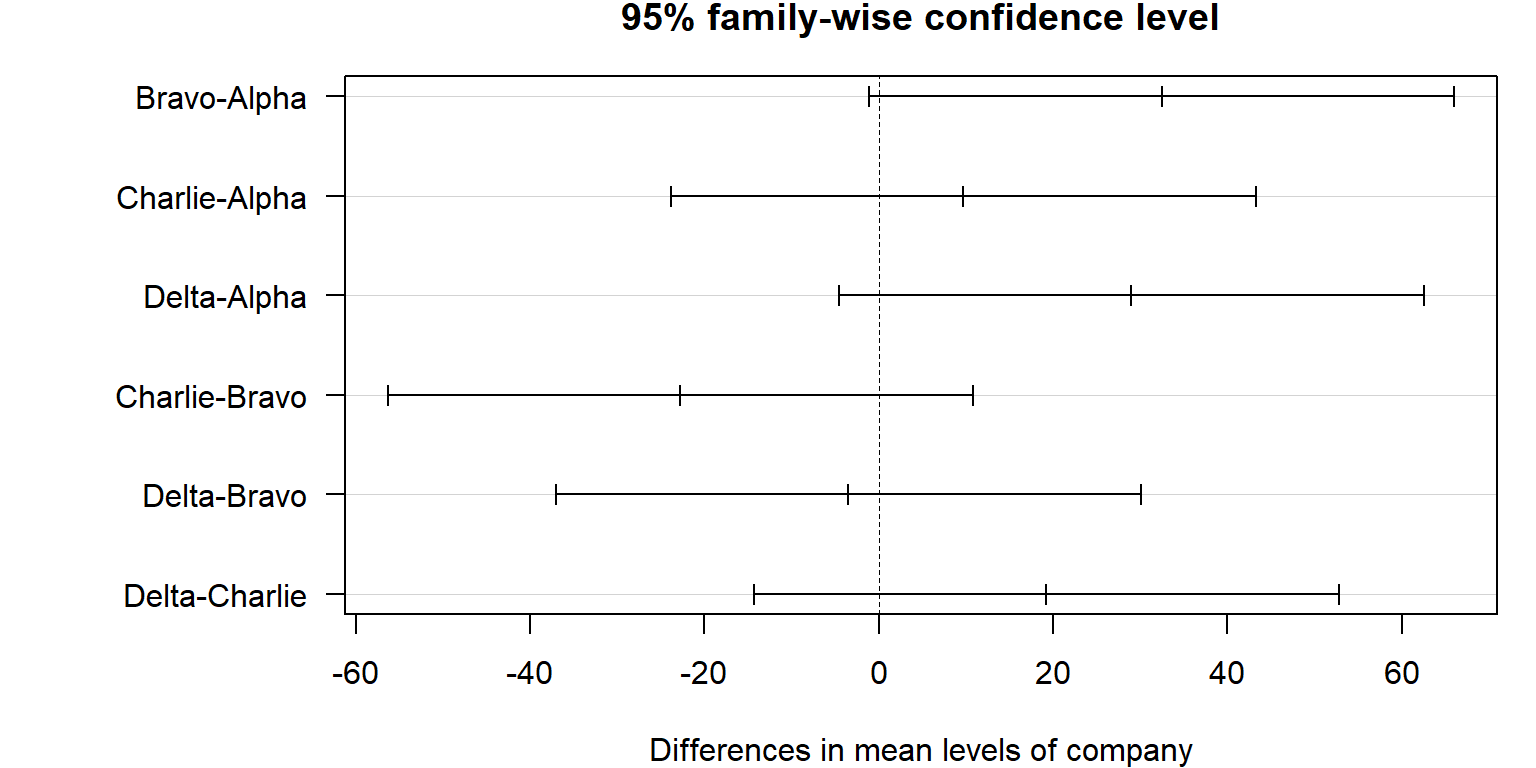
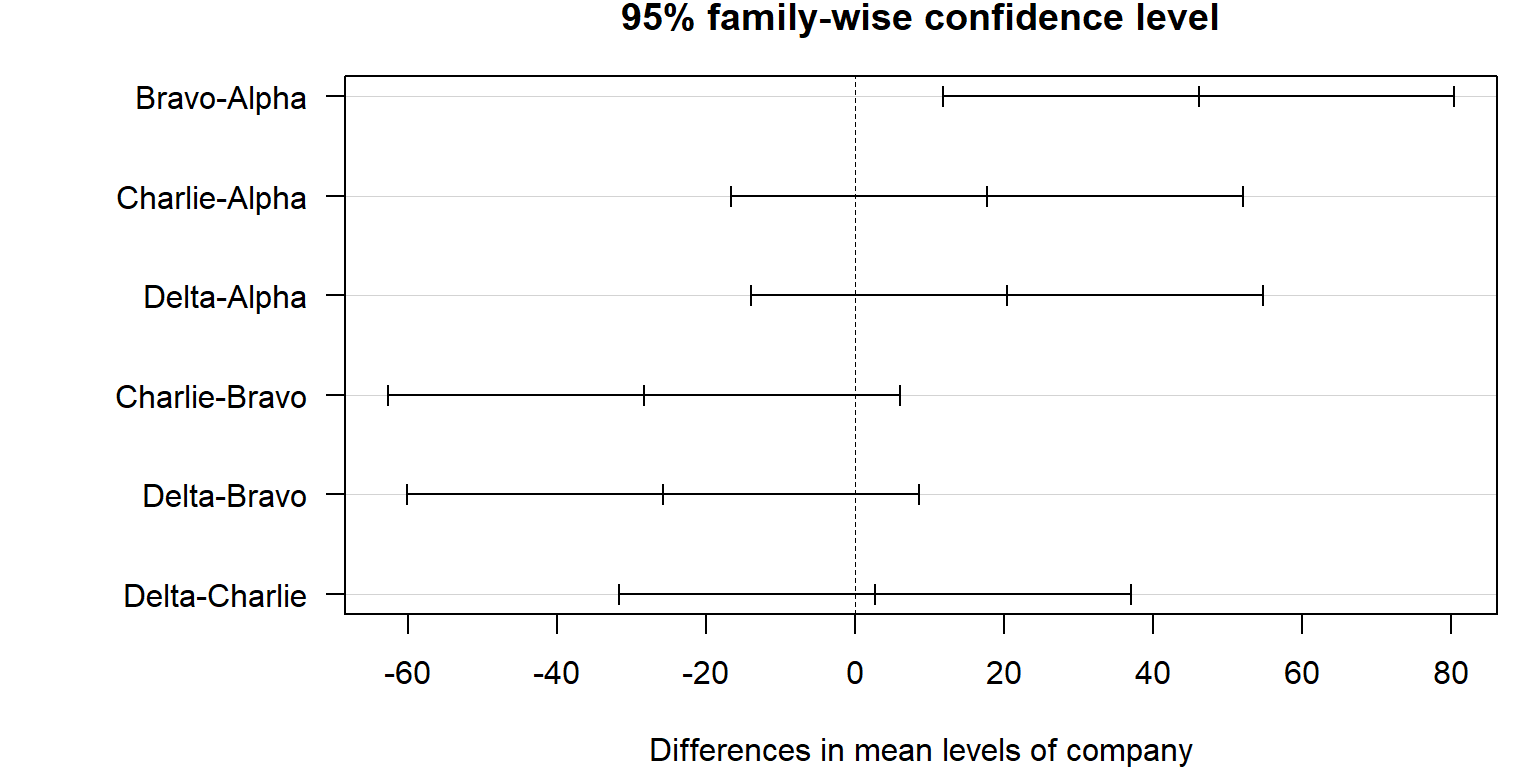
Sync westpoint folder from courses repo

diff --git a/public/westpoint/CD-MA206-AY27-1/forge-15.html b/public/westpoint/CD-MA206-AY27-1/forge-15.html
@@ -108,35 +108,6 @@ pre > code.sourceCode > span > a:first-child::before { text-decoration: underlin
 }</script>
 <style>html{ scroll-behavior: smooth; }</style>
 
-  <script src="https://cdnjs.cloudflare.com/polyfill/v3/polyfill.min.js?features=es6"></script>
-  <script defer="" src="https://cdn.jsdelivr.net/npm/mathjax@3/es5/tex-chtml-full.js" type="text/javascript"></script>
-
-<script type="text/javascript">
-const typesetMath = (el) => {
-  if (window.MathJax) {
-    // MathJax Typeset
-    window.MathJax.typeset([el]);
-  } else if (window.katex) {
-    // KaTeX Render
-    var mathElements = el.getElementsByClassName("math");
-    var macros = [];
-    for (var i = 0; i < mathElements.length; i++) {
-      var texText = mathElements[i].firstChild;
-      if (mathElements[i].tagName == "SPAN" && texText && texText.data) {
-        window.katex.render(texText.data, mathElements[i], {
-          displayMode: mathElements[i].classList.contains('display'),
-          throwOnError: false,
-          macros: macros,
-          fleqn: false
-        });
-      }
-    }
-  }
-}
-window.Quarto = {
-  typesetMath
-};
-</script>
 
 <link rel="stylesheet" href="styles.css">
 </head>
@@ -3361,10 +3332,21 @@ Instructor lay down, who teaches which hour
 </section>
 <section id="tukey" class="level2">
 <h2 class="anchored" data-anchor-id="tukey">Tukey</h2>
-<p>Forge 14’s AFT example: ANOVA rejected <span class="math inline">\(H_0\)</span> (P-value = 0.038). Which companies differ?</p>
+<p>AFT scores for 25 cadets in each of four companies. ANOVA first:</p>
 <div class="cell">
 <div class="code-copy-outer-scaffold"><div class="sourceCode cell-code" id="cb1"><pre class="sourceCode r code-with-copy"><code class="sourceCode r"><span id="cb1-1"><a href="#cb1-1" aria-hidden="true" tabindex="-1"></a>model <span class="ot">&lt;-</span> <span class="fu">aov</span>(score <span class="sc">~</span> company, <span class="at">data =</span> aft)</span>
-<span id="cb1-2"><a href="#cb1-2" aria-hidden="true" tabindex="-1"></a><span class="fu">TukeyHSD</span>(model)</span></code></pre></div><button title="Copy to Clipboard" class="code-copy-button"><i class="bi"></i></button></div>
+<span id="cb1-2"><a href="#cb1-2" aria-hidden="true" tabindex="-1"></a><span class="fu">summary</span>(model)</span></code></pre></div><button title="Copy to Clipboard" class="code-copy-button"><i class="bi"></i></button></div>
+<div class="cell-output cell-output-stdout">
+<pre><code>            Df Sum Sq Mean Sq F value  Pr(&gt;F)   
+company      3  27079    9026   4.178 0.00795 **
+Residuals   96 207420    2161                   
+---
+Signif. codes:  0 '***' 0.001 '**' 0.01 '*' 0.05 '.' 0.1 ' ' 1</code></pre>
+</div>
+</div>
+<p>P-value = 0.008 &lt; 0.05, so at least two company means differ. Which ones?</p>
+<div class="cell">
+<div class="code-copy-outer-scaffold"><div class="sourceCode cell-code" id="cb3"><pre class="sourceCode r code-with-copy"><code class="sourceCode r"><span id="cb3-1"><a href="#cb3-1" aria-hidden="true" tabindex="-1"></a><span class="fu">TukeyHSD</span>(model)</span></code></pre></div><button title="Copy to Clipboard" class="code-copy-button"><i class="bi"></i></button></div>
 <div class="cell-output cell-output-stdout">
 <pre><code>  Tukey multiple comparisons of means
     95% family-wise confidence level
@@ -3372,13 +3354,13 @@ Instructor lay down, who teaches which hour
 Fit: aov(formula = score ~ company, data = aft)
 
 $company
-                diff        lwr      upr     p adj
-Bravo-Alpha    32.48  -1.069979 66.02998 0.0614513
-Charlie-Alpha   9.72 -23.829979 43.26998 0.8732393
-Delta-Alpha    28.96  -4.589979 62.50998 0.1156049
-Charlie-Bravo -22.76 -56.309979 10.78998 0.2922783
-Delta-Bravo    -3.52 -37.069979 30.02998 0.9927414
-Delta-Charlie  19.24 -14.309979 52.78998 0.4418641</code></pre>
+                diff       lwr       upr     p adj
+Bravo-Alpha    46.12  11.74516 80.494837 0.0037870
+Charlie-Alpha  17.72 -16.65484 52.094837 0.5350555
+Delta-Alpha    20.36 -14.01484 54.734837 0.4128811
+Charlie-Bravo -28.40 -62.77484  5.974837 0.1419393
+Delta-Bravo   -25.76 -60.13484  8.614837 0.2107338
+Delta-Charlie   2.64 -31.73484 37.014837 0.9971145</code></pre>
 </div>
 </div>
 <p><strong>Reading each row:</strong> the difference in sample means, a 95% family-wise confidence interval for the difference in population means, and an adjusted P-value. An interval that contains 0 (P-value above 0.05) is no evidence that pair differs.</p>
@@ -3386,17 +3368,20 @@ Delta-Charlie  19.24 -14.309979 52.78998 0.4418641</code></pre>
 <div class="cell-output-display">
 <div>
 <figure class="figure">
-<p><img src="forge-15_files/figure-html/aft-tukey-plot-1.png" class="img-fluid figure-img" alt="Tukey 95 percent family-wise confidence intervals for the six pairwise differences in mean AFT score. Every interval crosses zero; Bravo minus Alpha comes closest." width="768"></p>
+<p><img src="forge-15_files/figure-html/aft-tukey-plot-1.png" class="img-fluid figure-img" alt="Tukey 95 percent family-wise confidence intervals for the six pairwise differences in mean AFT score. Only the Bravo minus Alpha interval lies entirely above zero; the other five cross zero." width="768"></p>
 </figure>
 </div>
 </div>
 </div>
-<p><strong>Interpretation:</strong> all six intervals contain 0, so Tukey finds no single pair of companies that differs at the 0.05 family-wise level. The closest is Bravo vs Alpha (difference 32.48, P-value = 0.061).</p>
+<p><strong>Interpretation:</strong></p>
+<ul>
+<li><strong>Bravo vs Alpha:</strong> the interval (11.75, 80.49) does not contain 0 (P-value = 0.004). There is convincing evidence Bravo’s mean AFT score is higher than Alpha’s, by 46.12 points in the sample.</li>
+<li><strong>The other five pairs:</strong> each interval contains 0 (P-values 0.142 to 0.997). No convincing evidence those means differ.</li>
+</ul>
 <p><strong>What this does and does not establish:</strong></p>
 <ul>
 <li>ANOVA says at least two means differ. It does not say which.</li>
 <li>Tukey checks every pair while holding the overall false positive rate at 5%. Each interval is wider than a single two-sample t interval.</li>
-<li>ANOVA can reject while Tukey flags no pair, as here. The overall F test pools the evidence across all four groups; no one pair is strong enough on its own.</li>
 <li>Neither shows cause. These are observed companies, not a randomized experiment.</li>
 </ul>
 
